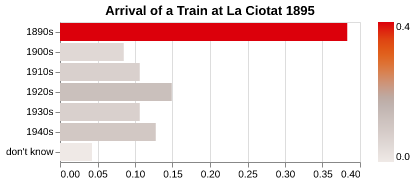
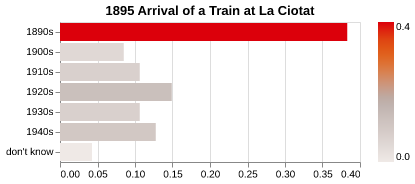
added examples

Changed region(s): [[0.2313, 0.0272, 0.7807, 0.0815]]

diff --git a/main.py b/main.py
@@ -37,7 +37,8 @@ def extract_frames(path_in, path_out):
     subprocess.call([
         'ffmpeg',
         '-i', str(path_in),
-        '-vf', 'fps=1',
+        #'-vf', 'fps=1', # one frame per second.
+        '-vf', 'scale=-2:720,fps=1/60', # one frame per minute.
         '-q:v', '2',
         f'{str(path_out)}/output_%04d.jpg'],
         stdout=subprocess.DEVNULL, stderr=subprocess.DEVNULL)
@@ -110,7 +111,7 @@ accepted_responses = [
 # parse incoming media files.
 
 media_folder = pathlib.Path.cwd() / 'media'
-media_files = [x for x in media_folder.iterdir() if x.suffix in ['.mp4']]
+media_files = [x for x in media_folder.iterdir() if x.suffix in ['.mp4', '.webm']]
 for x in media_files:
 
     # use generated hash to route working folder.

diff --git a/README.md b/README.md
@@ -12,9 +12,29 @@ The prompt to Ollama is specifically requesting that the film is dated based on 
 
 **Examples**
 
+
 [L'Arrivée d'un train en gare de La Ciotat](https://en.wikipedia.org/wiki/L%27Arriv%C3%A9e_d%27un_train_en_gare_de_La_Ciotat) [1895]
 
-![](report/ca453ca217d214016f984d4a6f48465f.png)
+Lumiere film of passengers boarding a train. Worth noting that almost every frame features a human being in regular clothing, hence the high confidence score.
+
+![](report/ca453ca217d214016f984d4a6f48465f.png)       
+
+
+
+[Der letzte Mann](https://en.wikipedia.org/wiki/The_Last_Laugh_(1924_film)) [1924]
+
+Less confidence could be due to shots in which human dress is obscured or not present. What is discernable is ballpark accurate.
+
+![](report/be59b7913b61fa0118614a823fcc0925.png)
+
+
+
+
+[Metropolis](https://en.wikipedia.org/wiki/Metropolis_(1927_film)) [1927]
+
+Least confident, likely owing to being a science fiction vision of the future. While some of the costuming (Maria, the executives) would be accurate for the time, a lot else is a projection of imagined future fashion.
+![](report/618b27d1fe42ebe32d7d8519105860c5.png)
+
 
 **Licence**
 
